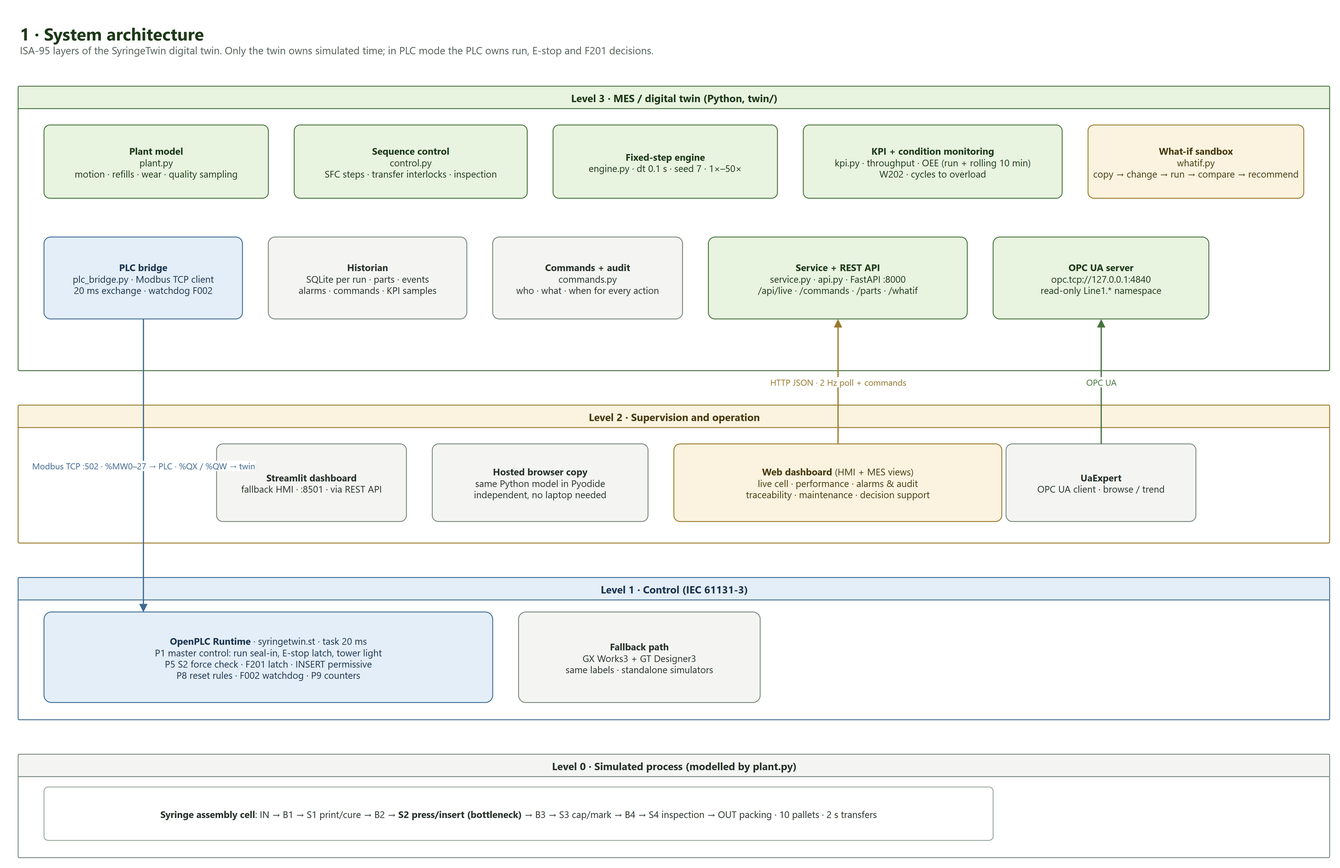
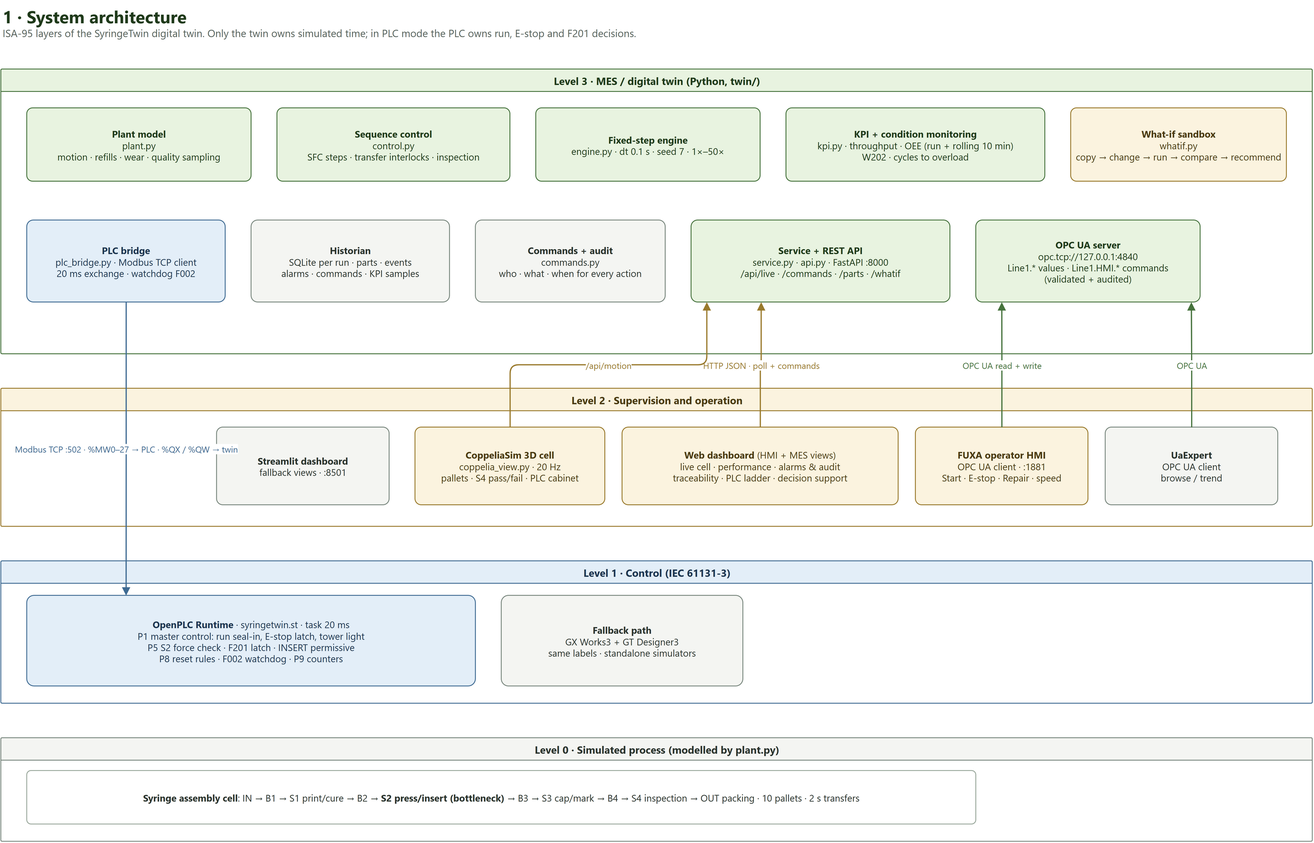
Rewrite README; add dashboard screenshots; show FUXA HMI and CoppeliaSim in the architecture diagram

diff --git a/docs/diagrams/build_diagrams.py b/docs/diagrams/build_diagrams.py
@@ -93,13 +93,14 @@ def architecture():
     d.box('<b>Historian</b><br>SQLite per run · parts · events<br>alarms · commands · KPI samples', 290, 175, 230, 95, 'grey', parent=l3)
     d.box('<b>Commands + audit</b><br>commands.py<br>who · what · when for every action', 550, 175, 220, 95, 'grey', parent=l3)
     api = d.box('<b>Service + REST API</b><br>service.py · api.py · FastAPI :8000<br>/api/live · /commands · /parts · /whatif', 800, 175, 300, 95, 'twin', parent=l3)
-    opcua = d.box('<b>OPC UA server</b><br>opc.tcp://127.0.0.1:4840<br>read-only Line1.* namespace', 1130, 175, 250, 95, 'twin', parent=l3)
+    opcua = d.box('<b>OPC UA server</b><br>opc.tcp://127.0.0.1:4840<br>Line1.* values · Line1.HMI.* commands<br>(validated + audited)', 1130, 175, 260, 95, 'twin', parent=l3)
 
     l2 = d.lane('Level 2 · Supervision and operation', 40, 470, 1520, 160, 'ops')
-    d.box('<b>Streamlit dashboard</b><br>fallback HMI · :8501 · via REST API', 230, 45, 220, 90, 'grey', parent=l2)
-    d.box('<b>Hosted browser copy</b><br>same Python model in Pyodide<br>independent, no laptop needed', 480, 45, 250, 90, 'grey', parent=l2)
-    dash = d.box('<b>Web dashboard</b> (HMI + MES views)<br>live cell · performance · alarms &amp; audit<br>traceability · maintenance · decision support', 760, 45, 380, 90, 'ops', parent=l2)
-    uaexpert = d.box('<b>UaExpert</b><br>OPC UA client · browse / trend', 1145, 45, 220, 90, 'grey', parent=l2)
+    d.box('<b>Streamlit dashboard</b><br>fallback views · :8501', 250, 45, 200, 90, 'grey', parent=l2)
+    coppelia = d.box('<b>CoppeliaSim 3D cell</b><br>coppelia_view.py · 20 Hz<br>pallets · S4 pass/fail · PLC cabinet', 480, 45, 220, 90, 'ops', parent=l2)
+    dash = d.box('<b>Web dashboard</b> (HMI + MES views)<br>live cell · performance · alarms &amp; audit<br>traceability · PLC ladder · decision support', 720, 45, 320, 90, 'ops', parent=l2)
+    fuxa = d.box('<b>FUXA operator HMI</b><br>OPC UA client · :1881<br>Start · E-stop · Repair · speed', 1060, 45, 200, 90, 'ops', parent=l2)
+    uaexpert = d.box('<b>UaExpert</b><br>OPC UA client<br>browse / trend', 1280, 45, 200, 90, 'grey', parent=l2)
 
     l1 = d.lane('Level 1 · Control (IEC 61131-3)', 40, 670, 1520, 165, 'plc')
     openplc = d.box('<b>OpenPLC Runtime</b> · syringetwin.st · task 20 ms<br>P1 master control: run seal-in, E-stop latch, tower light<br>P5 S2 force check · F201 latch · INSERT permissive<br>P8 reset rules · F002 watchdog · P9 counters', 30, 40, 520, 105, 'plc', parent=l1)
@@ -108,8 +109,10 @@ def architecture():
     l0 = d.lane('Level 0 · Simulated process (modelled by plant.py)', 40, 875, 1520, 120, 'grey')
     d.box('<b>Syringe assembly cell</b>: IN → B1 → S1 print/cure → B2 → <b>S2 press/insert (bottleneck)</b> → B3 → S3 cap/mark → B4 → S4 inspection → OUT packing · 10 pallets · 2 s transfers', 30, 38, 1100, 62, 'white', parent=l0)
 
-    d.edge(dash, api, 'HTTP JSON · 2 Hz poll + commands', color='#9A7A2C', extra=down)
-    d.edge(uaexpert, opcua, 'OPC UA', color='#46733D', extra=down)
+    d.edge(dash, api, 'HTTP JSON · poll + commands', color='#9A7A2C', extra='exitX=0.5;exitY=0;entryX=0.27;entryY=1;')
+    d.edge(coppelia, api, '/api/motion', color='#9A7A2C', extra='exitX=0.5;exitY=0;entryX=0.06;entryY=1;')
+    d.edge(fuxa, opcua, 'OPC UA read + write', color='#46733D', extra='exitX=0.5;exitY=0;entryX=0.115;entryY=1;')
+    d.edge(uaexpert, opcua, 'OPC UA', color='#46733D', extra='exitX=0.5;exitY=0;entryX=0.96;entryY=1;')
     d.edge(bridge, openplc, 'Modbus TCP :502 · %MW0–27 → PLC · %QX / %QW → twin', color='#3F6B93',
            extra='exitX=0.5;exitY=1;entryX=0.221;entryY=0;')
     d.write('01_system_architecture')

diff --git a/README.md b/README.md
@@ -1,81 +1,304 @@
 # SyringeTwin
 
-An interactive digital twin of Group 07's syringe assembly cell: IN → printing/cure → press/insertion → cap/mark → inspection → packing. The animated browser dashboard and the retained Streamlit dashboard share one local Python engine. A hosted browser simulation runs the same bundled Python model independently in a Web Worker.
+**A digital twin of a smart syringe assembly cell, with a real PLC in the loop.**
 
-## Start on Windows
+SyringeTwin models a six-station production cell that assembles 5 mL three-part syringes, from loading the barrel to packing the finished part. A Python simulation is the single source of truth for the plant. Around it sits the same stack a real factory would use: an IEC 61131-3 PLC program running on OpenPLC over Modbus TCP, an OPC UA server feeding an industrial HMI, a live 3D view of the cell in CoppeliaSim, and a decision-support layer that answers "what happens if we change this?" before anyone touches the line.
 
-Python 3.11 or later is required. This working copy has a configured Python 3.12 virtual environment.
+![The assembly cell in CoppeliaSim, mirroring the twin in real time](docs/evidence/coppelia_running.png)
 
-1. Double-click `Start_Windows.bat`. It opens the browser dashboard at **http://127.0.0.1:8000** and keeps both services running in the background.
-2. Enter an operator name and press **Start**. The Streamlit dashboard is also available at **http://127.0.0.1:8501**.
-3. Double-click `Stop_Windows.bat` to shut down both services. Dashboard **Stop** pauses production while retaining the running services and current parts.
+---
 
-For a freshly downloaded copy, `Install_Windows.bat` installs dependencies into `.venv`. Start also installs automatically if `.venv` does not exist. No global package installation or administrator privileges are needed.
+## Contents
 
-PowerShell alternative, from this folder:
+- [What it does](#what-it-does)
+- [The process](#the-process)
+- [Architecture](#architecture)
+- [The core story: tool wear to overload](#the-core-story-tool-wear-to-overload)
+- [Decision support (what-if)](#decision-support-what-if)
+- [Control layer: OpenPLC](#control-layer-openplc)
+- [Operator interfaces](#operator-interfaces)
+- [3D cell and CAD](#3d-cell-and-cad)
+- [Validation](#validation)
+- [Getting started](#getting-started)
+- [Repository layout](#repository-layout)
+- [Technology](#technology)
+- [Scope and limitations](#scope-and-limitations)
 
-```powershell
-py -3 tools/setup_env.py --dev
-& .\.venv\Scripts\python.exe launch.py --background
-& .\.venv\Scripts\python.exe launch.py --stop
+---
+
+## What it does
+
+| Capability | What you see |
+|---|---|
+| **Live process model** | Ten RFID-tagged pallets circulate through six stations and four FIFO buffers. Each station runs its own step sequence (SFC), with transfer interlocks, refills, tool wear and quality noise. |
+| **Fault behaviour** | An S2 press overload (F201) is a *local* fault: S2 stops, upstream stations block, downstream stations starve, and the rest of the line keeps running. The same thing happens on the PLC, the dashboard, the HMI and in 3D. |
+| **Condition monitoring** | Press force is trended for every cycle. A warning (W202) is raised from the smoothed force and the predicted cycles left before overload, well before the trip. |
+| **Decision support** | A what-if sandbox copies the live line, applies a change such as a tool-change policy or a cycle-time change, runs it forward over several random seeds, and recommends an option only when the gain is consistent across them. |
+| **Real control logic** | A Structured Text program on OpenPLC owns run permission, the E-stop latch, F201 detection, alarm reset rules, counters and a link watchdog. The dashboard draws the same logic as live ladder rungs. |
+| **Industrial interfaces** | Modbus TCP to the PLC; OPC UA (`ns=2;s=Line1.*`) for SCADA/HMI clients; a FUXA operator HMI whose buttons go through the same validated, audited command path as the dashboard. |
+| **Traceability** | Every serial keeps its measurements, decisions and event history. Every operator action is recorded with who, what and when. History is stored in SQLite per run. |
+| **KPIs** | Throughput, OEE (cumulative and rolling 10 minutes), first-pass yield, lead time, WIP and a reject Pareto by reason code. |
+
+---
+
+## The process
+
+The product is a 5 mL three-part disposable syringe made of a barrel, a plunger with a rubber stopper, and a tip cap. Each pallet carries one syringe through the cell:
+
+```
+ IN ──► B1 ──► S1 ──► B2 ──► S2 ──► B3 ──► S3 ──► B4 ──► S4 ──► OUT
+ load         print         press         cap           inspect      pack
+ barrel       + UV cure     + insert      + laser mark  vision+leak  boxes of 10
+   ▲                                                       │ reject bin
+   └─────────────────── empty pallet return (10 s) ─────────┘
 ```
 
-For a console session use `launch.py` without `--background`; Ctrl+C closes both services. Logs for background sessions are in `.runtime/stdout.log` and `.runtime/stderr.log`. A second background launch reopens the existing session. To choose different ports, stop the current session first, then run `launch.py --background --api-port 8001 --ui-port 8502`.
+| Station | Steps (simulation seconds) | Cycle incl. 2 s transfer |
+|---|---|---|
+| IN · Material input | PICK 1.5 · PLACE 1.0 · WRITE_ID 0.5 | 5 s |
+| S1 · Print and cure | CLAMP 0.5 · PRINT 2.0 · CURE 3.0 · UNCLAMP 0.5 | 8 s |
+| **S2 · Press and insert** | PRESS 2.0 · INSERT 3.0 · RETRACT 1.5 · RELEASE 0.5 · HANDLING 1.0 | **10 s (bottleneck, 360 units/h)** |
+| S3 · Cap and mark | CAP_PRESS 1.5 · LASER 2.5 · VERIFY 1.0 | 7 s |
+| S4 · Inspection | VISION 1.0 · LEAK 3.0 · DECIDE 0.5 · DIVERT 0.5 | 7 s |
+| OUT · Packing | UNLOAD 1.0 | 3 s |
 
-## macOS and Linux
+S4 decides PASS or FAIL from the part's measured history. The reject codes are:
+
+| Code | Rule |
+|---|---|
+| R1 | Print offset > 0.15 mm |
+| R2 | Press force outside 105–140 N |
+| R3 | Leak rate > 5 Pa/s |
+| R4 | Cap missing |
+| R5 | Laser mark grade D |
+
+All timing, limits and probabilities live in [`config/line.yaml`](config/line.yaml).
+
+---
+
+## Architecture
+
+![System architecture across ISA-95 levels](docs/diagrams/01_system_architecture.png)
+
+The twin owns simulated time; nothing else advances it. It runs a fixed-step engine (dt 0.1 s, seed 7, 1× to 50× speed) and publishes one consistent snapshot per step to every consumer:
+
+- **Level 3, MES and digital twin** (`twin/`): plant model, sequence control, KPIs, historian, command audit, what-if sandbox, REST API (FastAPI on `:8000`) and OPC UA server (`:4840`).
+- **Level 2, supervision and operation**: the web dashboard, the FUXA HMI, the CoppeliaSim 3D cell, UaExpert, and a Streamlit fallback.
+- **Level 1, control**: OpenPLC Runtime running [`plc/openplc/syringetwin.st`](plc/openplc/syringetwin.st) with a 20 ms task.
+- **Level 0, process**: the simulated cell itself.
+
+In **PLC mode** the twin hands the run, E-stop and F201 decisions to the PLC and waits for its verdicts. In **internal mode** the twin applies the same logic itself, so everything also works without a PLC.
+
+More diagrams are in [`docs/diagrams/`](docs/diagrams): process flow, data architecture, F201 cause and effect, and the what-if loop. Each is an editable `.drawio` file with a PNG export.
+
+---
+
+## The core story: tool wear to overload
+
+The S2 press tool wears with every cycle, and press force rises with wear. This one physical cause drives most of what the twin demonstrates:
+
+1. **Drift.** Force climbs from about 120 N towards the 140 N quality limit. The force chart shows it live.
+2. **Early warning (W202).** The 5-press mean exceeds 135 N, or fewer than 60 cycles are predicted before overload. Maintenance gets advance notice.
+3. **Quality loss.** Parts pressed outside the window fail at S4 with R2, and usually R3 as well, because over-pressed parts also leak.
+4. **Overload (F201).** One press exceeds 160 N. S2 latches the fault, the tower light turns red, B2 fills and blocks S1 and IN, and S3 onwards starves.
+5. **Recovery.** Repair takes 90 s. Reset is refused until the repair is complete. S2 then resumes at RETRACT, and the affected part is rejected with its overload event still on its trace.
+
+The `demo` profile speeds this up for presentations. W202 appears after about 410 simulation seconds and F201 after about 870, which is roughly 90 seconds of real time at 10× speed.
+
+![Live dashboard](docs/images/dash_live.png)
+
+---
+
+## Decision support (what-if)
+
+The Decision support page answers operational questions without disturbing the running line:
+
+1. **Copy** the live state, deep-copied and never modified.
+2. **Change** one thing: the maintenance policy or a station's cycle time.
+3. **Run** every option forward over the same horizon (30, 60 or 120 minutes) using common random numbers, across 1, 3 or 5 seeds.
+4. **Compare** good units per hour, F201 count, rejects and downtime.
+5. **Recommend** an option only if it gains at least 2 % and wins in at least 4 of 5 seeds; otherwise keep the current setting.
+
+Results measured by the validation suite (seed 7):
+
+| Question | Result |
+|---|---|
+| Keep running, change the tool now, or change on condition? | Condition-based wins: **337 good/h** vs 217 (keep running) and 234 (change now). F201 drops from 2 to 0. Wins 5 of 5 seeds. |
+| Speed up S1 curing (3 s to 2 s)? | **No gain** (+0.0 %). S1 is not the bottleneck, so the recommendation is to keep the current setting. |
+| Speed up S2 insertion (3 s to 0.5 s)? | **+27.7 %**. Design capacity rises from 360 to 450/h, and the bottleneck moves from S2 to S1. |
+| Does the "keep running" forecast match reality? | Forecast F201 at 229.2 s; the live line tripped at 229.2 s. |
+
+---
+
+## Control layer: OpenPLC
+
+The PLC program is deliberately small but real. It is IEC 61131-3 Structured Text, compiled by OpenPLC's matiec toolchain and run on OpenPLC Runtime v3:
+
+| Block | Responsibility |
+|---|---|
+| **P1** master control | Run seal-in (only E-stop or link loss stops the line), E-stop latch F001, tower light and horn |
+| **P5** S2 force monitoring | Evaluates every press sample, latches F201 above 160 N, returns a verdict that S2 must receive before INSERT |
+| **P8** alarms and recovery | Reset rules (F201 only after repair, F001 only with the E-stop released) and an F002 link watchdog |
+| **P9** counters | Parts in, good and reject, box fill and boxes packed |
+
+The twin and the PLC exchange 28 holding registers and a set of coils over Modbus TCP every 20 ms. Edge events are carried as sequence numbers, not pulses, so nothing is lost between scans. If the PLC stops, the twin raises **F002** within a second and halts the line, which shows the PLC really is in the loop.
+
+The **PLC logic** page draws 16 ladder rungs equivalent to the ST code, each beside its Structured Text, energised live from the PLC's coils and registers (or from the twin's equivalent state in internal mode).
+
+![Live ladder view of the PLC program](docs/images/dash_plc.png)
+
+| Document | Purpose |
+|---|---|
+| [`docs/plc/PLC_SPEC.md`](docs/plc/PLC_SPEC.md) | Program organisation, rung-by-rung logic, twin-side contract, verification cases |
+| [`docs/plc/tag_dictionary.csv`](docs/plc/tag_dictionary.csv) | Every signal with its Modbus address, OPC UA node ID and HMI use |
+| [`docs/plc/UBUNTU_RUNBOOK.md`](docs/plc/UBUNTU_RUNBOOK.md) | Installing OpenPLC, loading the program, acceptance tests and the full demo |
+
+---
+
+## Operator interfaces
+
+**Web dashboard** (`http://127.0.0.1:8000`) has seven workspaces: live cell, performance, alarms and audit, traceability, maintenance, PLC logic and decision support.
+
+**FUXA HMI** (`http://127.0.0.1:1881`) is a full-screen operator panel built in an open-source industrial SCADA package. It connects as an OPC UA client and shows:
+
+- Station states, buffer levels, production KPIs and S2 force and tool health
+- Alarm lamps and the last inspection result
+
+Its buttons are Start, Stop, Reset, Repair, Tool change, Inject F201, E-stop and speed. The HMI writes to the `Line1.HMI.*` command nodes; the twin validates each request, records it in the audit trail as *HMI (OPC UA)*, and reports the outcome back to the screen. The project file is [`hmi/syringetwin_hmi.json`](hmi/syringetwin_hmi.json).
+
+**OPC UA**: any client, for example UaExpert, can browse and trend the `Line1.*` namespace at `opc.tcp://127.0.0.1:4840/syringetwin/`.
+
+![Performance workspace](docs/images/dash_trends.png)
+
+---
+
+## 3D cell and CAD
+
+`tools/coppelia_view.py` builds a Factory I/O-style cell in CoppeliaSim. It has roller conveyors, photo-eyes, machine frames, a control panel, a stack light, a PLC cabinet with live LEDs, and a scoreboard. It mirrors the twin at about 20 Hz:
+
+- Pallets glide between stations, and each syringe gains its parts as it travels.
+- The press ram strokes, and the housings take each machine's state colour.
+- S4 lights PASS or FAIL. A pusher diverts rejects into the bin; good parts fill the packing box.
+
+<table>
+<tr>
+<td><img src="docs/evidence/coppelia_f201_propagation.png" alt="F201 at S2: upstream blocked, downstream starved"></td>
+<td><img src="docs/evidence/coppelia_s4_fail.png" alt="S4 rejects a part"></td>
+</tr>
+<tr>
+<td align="center">F201 at S2: upstream blocks, downstream starves</td>
+<td align="center">S4 inspection failure and diversion</td>
+</tr>
+</table>
+
+The product and its pallet fixture are modelled parametrically in CadQuery (ISO 7886-1 style 5 mL syringe, 6 % luer taper). STEP and STL files for every part, plus syringe and pallet assemblies, are in [`cad/`](cad) and open directly in Fusion 360 or any CAD tool.
+
+<p align="center"><img src="cad/render_syringe.png" width="640" alt="Syringe CAD, assembled and exploded"></p>
+
+---
+
+## Validation
+
+The model is checked against its own rules and against queueing theory, and every number is measured, not asserted.
+
+- **[Validation test matrix](docs/evidence/test_matrix.md): 36 of 36 automated cases pass.** They cover start and stop, E-stop, F201 and its propagation, recovery, inspection correctness, part conservation on every tick, FIFO order, refills, planned tool changes, design rate, Little's Law, determinism, what-if behaviour and PLC mode.
+- **Design rate**: with wear and noise switched off, the line produces exactly 360 good units per hour.
+- **Little's Law**: WIP equals throughput × lead time on the same window (8.99 vs 8.99).
+- **Real PLC acceptance: 13 of 13 cases pass on OpenPLC Runtime v3 (Ubuntu)**, recorded in [`plc_manual_results.json`](docs/evidence/plc_manual_results.json) and in the test matrix. `tools/plc_acceptance.py` runs PLC-01 to PLC-13 against the running PLC, covering seal-in, E-stop latching, F201 and its injection, reset rules, the watchdog and the counters.
+- **Unit and integration tests**: 88 pytest tests, including a software PLC that runs the ST logic and a Modbus server double for the bridge.
+- **CI**: GitHub Actions on Ubuntu and Windows (Python 3.11) runs the suite and a UI smoke test on every push.
 
 ```bash
-python3 tools/setup_env.py --dev
-.venv/bin/python launch.py
+python -m pytest -q
+python tools/validation_matrix.py      # regenerates docs/evidence/test_matrix.md
 ```
 
-Open http://127.0.0.1:8000; keep the terminal open, and use Ctrl+C to close. The current installation and launch flow were verified on Windows. Cross-platform CI is included; macOS device execution is not claimed.
+---
 
-## Demonstrate the cell
+## Getting started
 
-- Keep **10×** speed and press **Start**. The first outputs take roughly ten real seconds, depending on startup state. All durations refer to simulation seconds.
-- Watch real serials move between six stations and four FIFO buffers. The engine owns process progress; the UI interpolates motion between snapshots.
-- Open traceability to inspect a serial's measurements, decisions and events, then export JSON.
-- Inject **F201** while S2 is processing. It holds S2 locally; upstream blocks and downstream starves. Press **Repair S2**, wait 90 simulation seconds, then **Reset**. The affected part retains its overload trace and receives R2 rejection.
-- For E-stop use **Engage → Release → Reset → Start**. Reset while the physical E-stop is active cannot clear it.
-- Planned tool change takes 20 simulation seconds at the next S2 WAIT boundary. Refills take 30 simulation seconds. Maintenance and refill timers advance while the line is running.
+Python 3.11 or later is required.
 
-Natural wear and quality noise are enabled. A running line can develop an overload; it is not a dashboard connection failure. Stop freezes production progress while the simulation clock continues.
+### Quick start (Windows, no PLC)
 
-## Local and hosted behavior
+1. Double-click `Start_Windows.bat`. It creates `.venv` on first run and opens the dashboard at http://127.0.0.1:8000.
+2. Enter an operator name, choose a speed, and press **Start line**.
+3. `Stop_Windows.bat` shuts everything down.
 
-| Mode | Simulation owner | History | Laptop required |
-| --- | --- | --- | --- |
-| Local browser dashboard | FastAPI background service | Per-run SQLite in `data/` | Yes |
-| Local Streamlit | Same FastAPI service | Same local run | Yes |
-| Hosted browser simulation | Python/Pyodide worker in each open tab | Memory and JSON exports | No |
+### Command line (any OS)
 
-The hosted site is initially private. It loads the pinned Pyodide runtime and NumPy/PyYAML from the official runtime CDN. Initial loading requires internet access. Closing/reloading a hosted tab starts a new independent run; it does not control or mirror the local laptop. For local testing of this mode use `http://127.0.0.1:8000/?engine=browser`.
-
-The deployed private simulation is at [SyringeTwin Lab](https://syringetwin-lab.aryan-kapil-btech202.chatgpt.site).
-
-Each backend restart begins a fresh simulation and creates a separate database. Earlier databases remain on disk; model state is not restored automatically.
-
-## Measurements and boundaries
-
-- Fixed 0.1-second steps, seed 7, per-station random generators, ten unique pallets, FIFO buffers and reserved two-second transfers.
-- Design rate is **360 units/hour** with the ten-second line cycle. Default noisy/wearing production is not guaranteed to reach this rate.
-- Throughput uses good exits in the trailing 600 simulation seconds multiplied by six. OEE is cumulative A × P × Q at S2. Quality uses inspection decisions; output counts update at unloading/diversion.
-- Undefined measurements display **—**. Reject Pareto counts codes; a part can have multiple codes. Live Little's Law remains undefined; the original offline aligned-window baseline verifies it.
-- This is a Python process/SFC demonstration. Full frozen PLC I/O/P1–P9 ladder integration and an external industrial simulator remain unfinished. The simulation does not establish medical-device or hardware validation.
-- Local command audit and traceability are preserved. Very long, fast runs can accumulate substantial part/event history; restart creates a fresh run.
-
-The original handoff and Streamlit ZIP contain identical project sources. Archived specification documents and prior Linux evidence are preserved separately from the current Windows evidence. The earlier Streamlit-only README is in `docs/ORIGINAL_STREAMLIT_README.md`.
-
-## Development
-
-```powershell
-& .\.venv\Scripts\python.exe -m pytest -q tests
-$env:PYTHONPATH = "."
-& .\.venv\Scripts\python.exe tests/ui_smoke.py
-& .\.venv\Scripts\python.exe tools/build_web.py
+```bash
+python tools/setup_env.py --dev
+.venv/bin/python launch.py --profile demo --opcua           # Windows: .venv\Scripts\python.exe
 ```
 
-Regenerate `web/model_bundle.json` whenever model code or `config/line.yaml` changes. Tests verify that local and browser source/config are identical. `CONTRIBUTING.md`, `.github/workflows/ci.yml` and `docs/COLLABORATION.md` describe team changes and the intended `shmizi` collaboration. Do not commit `.venv`, `.runtime`, databases or credentials.
+| Flag | Effect |
+|---|---|
+| `--profile demo` | Accelerated tool wear, so W202 and F201 appear within minutes |
+| `--opcua` | Starts the OPC UA server for FUXA or UaExpert |
+| `--plc HOST[:PORT]` | PLC mode: links the twin to OpenPLC over Modbus TCP |
+| `--background` / `--stop` | Runs as a managed background session |
 
-Current operational evidence is in `docs/evidence/windows_*` and `docs/evidence/OPERATIONAL_STATUS.md`; older evidence is labeled by its original files. GitHub publication and invitation status are recorded in the delivery status once completed.
+To add the 3D view, start CoppeliaSim Edu 4.10 and run `python tools/coppelia_view.py --launch`.
+
+### Full demo with the real PLC (Ubuntu)
+
+Everything runs on one Ubuntu machine: OpenPLC, the twin, CoppeliaSim and the FUXA HMI.
+
+```bash
+bash tools/ubuntu_setup.sh       # once: OpenPLC Runtime v3 and the Python environment
+bash tools/ubuntu_coppelia.sh    # once: CoppeliaSim Edu 4.10
+bash tools/ubuntu_hmi.sh         # once: Node.js and FUXA
+bash tools/ubuntu_demo.sh        # each demo: twin + 3D cell + HMI, linked to OpenPLC
+```
+
+Load `plc/openplc/syringetwin.st` into OpenPLC and start it first. The [Ubuntu runbook](docs/plc/UBUNTU_RUNBOOK.md) walks through each step and includes a demo script.
+
+---
+
+## Repository layout
+
+```
+twin/              Digital twin: engine, plant model, control, KPIs, what-if, PLC bridge, OPC UA, API
+web/               Web dashboard (HTML/JS) including the live ladder view
+plc/openplc/       Structured Text programs for OpenPLC (syringetwin.st, connection spike)
+hmi/               FUXA operator HMI project
+config/            Line parameters (line.yaml) and the demo profile
+cad/               Syringe and pallet CAD: STEP, STL, drawings, renders
+tools/             3D viewer, PLC probe and acceptance test, validation matrix, setup scripts
+tests/             pytest suite, software PLC and Modbus doubles, UI smoke test
+docs/diagrams/     Architecture and process diagrams (draw.io + PNG)
+docs/plc/          PLC specification, tag dictionary, Ubuntu runbook
+docs/evidence/     Test matrix, measurements and screenshots
+docs/specification/ Project brief and design decisions (D1–D13)
+```
+
+---
+
+## Technology
+
+| Layer | Tools |
+|---|---|
+| Simulation and MES | Python 3.11+, NumPy, PyYAML, FastAPI, SQLite |
+| Control | OpenPLC Runtime v3, IEC 61131-3 Structured Text, Modbus TCP (pymodbus) |
+| Interoperability | OPC UA (asyncua), UaExpert |
+| HMI and dashboards | FUXA, vanilla JS web dashboard, Streamlit |
+| 3D visualisation | CoppeliaSim Edu 4.10 (ZeroMQ remote API) |
+| CAD | CadQuery (STEP/STL), Fusion 360 compatible |
+| Engineering docs | draw.io |
+| Quality | pytest, GitHub Actions (Ubuntu and Windows) |
+
+---
+
+## Scope and limitations
+
+- SyringeTwin is a teaching and demonstration twin. Dimensions, timings and quality distributions are representative, not taken from a validated production line, and nothing here constitutes medical-device validation.
+- The plant is simulated; there is no physical hardware. The PLC is real software (OpenPLC) controlling simulated I/O.
+- The OPC UA server and Modbus link are bound to localhost without security. They are a demonstration interface, not a plant network configuration.
+- Each restart begins a fresh, deterministic run (seed 7); earlier runs remain on disk as separate databases.
+
+Design choices and their rationale (local versus global faults, transfer semantics, what-if fairness, the PLC split, the HMI command path) are recorded in [`docs/specification/DECISIONS.md`](docs/specification/DECISIONS.md).
+
+---
+
+Developed by Group 07 for the *Digital Twin of a Smart Factory* project.
